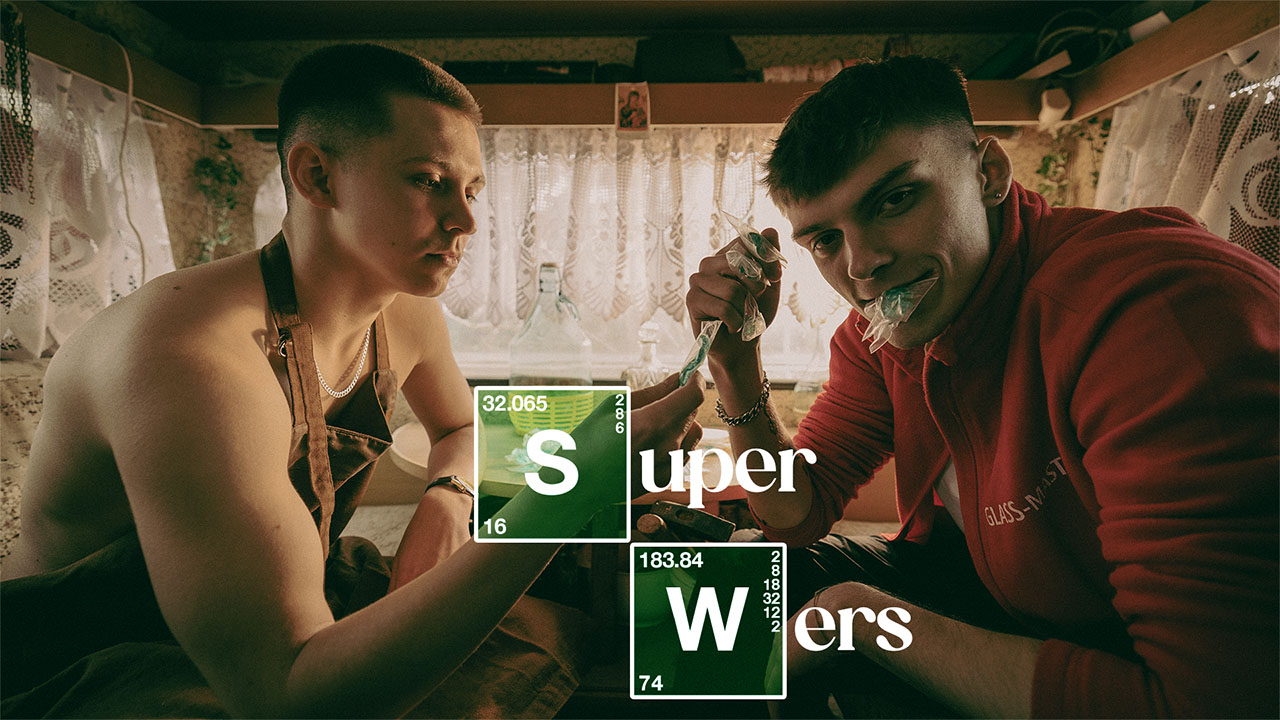
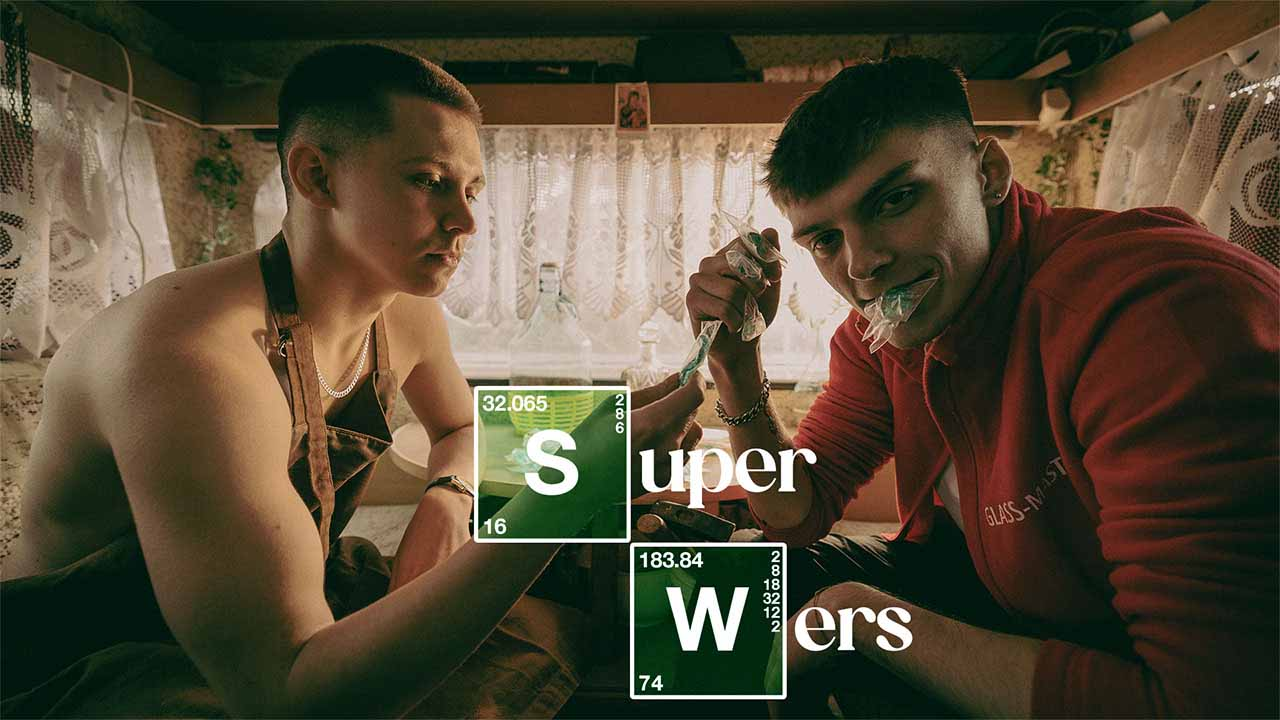
changed photos resolution

Changed region(s): [[0.375, 0.55, 0.4375, 0.6111]]

diff --git a/index.html b/index.html
@@ -82,7 +82,7 @@
                         <li class="yt-link">
                             <a href="#">
                                 <div class="flexboxik">
-                                    <img src="images-miniaturki/zle_dni.png">
+                                    <img src="images-miniaturki/zle_dni.jpg">
                                     <p>martin & FELIPE - Złe dni [🎥: MXR]</p>
                                 </div>
                             </a>
